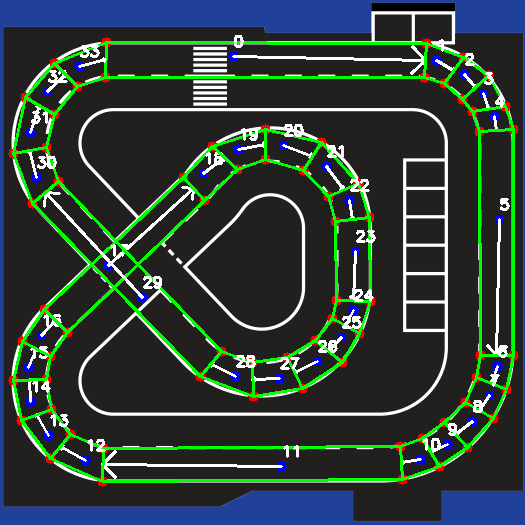
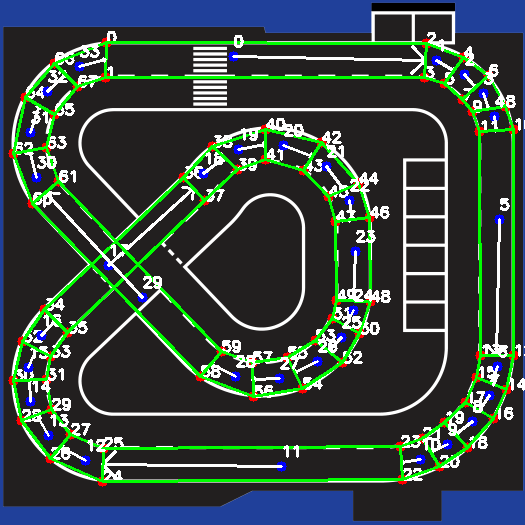
tweaks

diff --git a/road_follow_eyesim_functions.py b/road_follow_eyesim_functions.py
@@ -35,7 +35,6 @@ flipped_left_lane_world_coordinates = [
     (4486,1086),(4486,600),(4267,819),(3990,400),(4000,733)
 ]
 
-
 # Define the world dimensions with required angle
 coordinates = [
     (2781,533,1),(848,571,30),(581,705,50),(400,886,70),(295,1105,82),
@@ -69,34 +68,32 @@ def eyesim_get_position():
     [x,y,_,_] = SIMGetRobot(1)
     point = (x.value, y.value)
     result = 0
-    for i in range(0, len(flipped_left_lane_world_coordinates)-2, 2):
-        polygon = np.array([
-            flipped_left_lane_world_coordinates[i],
-            flipped_left_lane_world_coordinates[i+1],
-            flipped_left_lane_world_coordinates[i+3],
-            flipped_left_lane_world_coordinates[i+2]
-        ], np.int32)
 
-        # Reshape the polygon points
-        polygon = polygon.reshape((-1, 1, 2))
+    polygon = np.array([
+        flipped_left_lane_world_coordinates[current_polygon*2],
+        flipped_left_lane_world_coordinates[current_polygon*2+1],
+        flipped_left_lane_world_coordinates[(current_polygon*2+3)%68],
+        flipped_left_lane_world_coordinates[(current_polygon*2+2)%68]
+    ], np.int32)
 
-        # Check if the point is inside the polygon
-        result = cv2.pointPolygonTest(polygon, point, False)
-        print(result)
-        # If the point is inside the polygon return
-        if result > 0:
-            break
+    # Reshape the polygon points
+    polygon = polygon.reshape((-1, 1, 2))
+
+    # Check if the point is inside the polygon
+    result = cv2.pointPolygonTest(polygon, point, False)
+    # If the point is inside the polygon return
     return result
-
 
 # Function to reset the robot and can positions in the simulation
 def eyesim_reset(): 
+    global current_polygon
     # Stop robot movement
     VWSetSpeed(0,0)
 
     # # Pick random position along the road to start
     random = randint(0,len(coordinates)-1)
     current_polygon = random
+
     # # Position the robot in the simulation
     x,y,phi = coordinates[random]
     SIMSetRobot(1,x,y,10,phi+180) # Add 180 degrees to the angle to flip robot into correct direction

diff --git a/image_processing.py b/image_processing.py
@@ -95,14 +95,14 @@ scale_x = world_width / img_width
 scale_y = world_height / img_height
 
 # Function to add polygons to the image
-def image_processing(image, file_write=False):
+def image_processing(image, file_write=True):
     with open("points/centroids.txt", "w") as file:
         # Draw a small red circle at each coordinate and label with index
         for i, (x, y) in enumerate(left_lane_coordinates[:-2]):
             # Draw the point on the image
             cv2.circle(image, (x, y), 5, (0, 0, 255), -1)
             # Add a label with the point index: image, text, position, font, font scale, color, thickness
-            cv2.putText(image, str(i), (x, y+10), cv2.FONT_HERSHEY_SIMPLEX, 0.5, (255, 255, 255), 2)
+            cv2.putText(image, str(i), (x, y), cv2.FONT_HERSHEY_SIMPLEX, 0.5, (255, 255, 255), 2)
             
         # Creating polygons and finding centre point of each polygon
         for i in range(0, len(left_lane_coordinates)-2, 2):
@@ -225,17 +225,13 @@ def convert_to_world_coordinates_angle(points, filename):
             if i % 5 == 0: file.write("\n")
             i+=1
 
-# Function to show the image
-def show_image(image):
-    cv2.imshow('Image', image)
-    cv2.waitKey(0)
-    cv2.destroyAllWindows()
-
 # Function to save the image
 def save_image(image, filename):
-    image = image_processing(image, file_write=True)
+    image = image_processing(image)
+    cv2.imshow('Image 2', image)
+    cv2.waitKey(0)
+    cv2.destroyAllWindows()
     cv2.imwrite(filename, image)
 
 # convert_to_world_coordinates_angle(coordinates, "points/flipped_centroids_world_coordinates")
-
-save_image(image, 'Sims/Carolo_labelled.png')
+save_image(image, 'Carolo_labelled.png')
